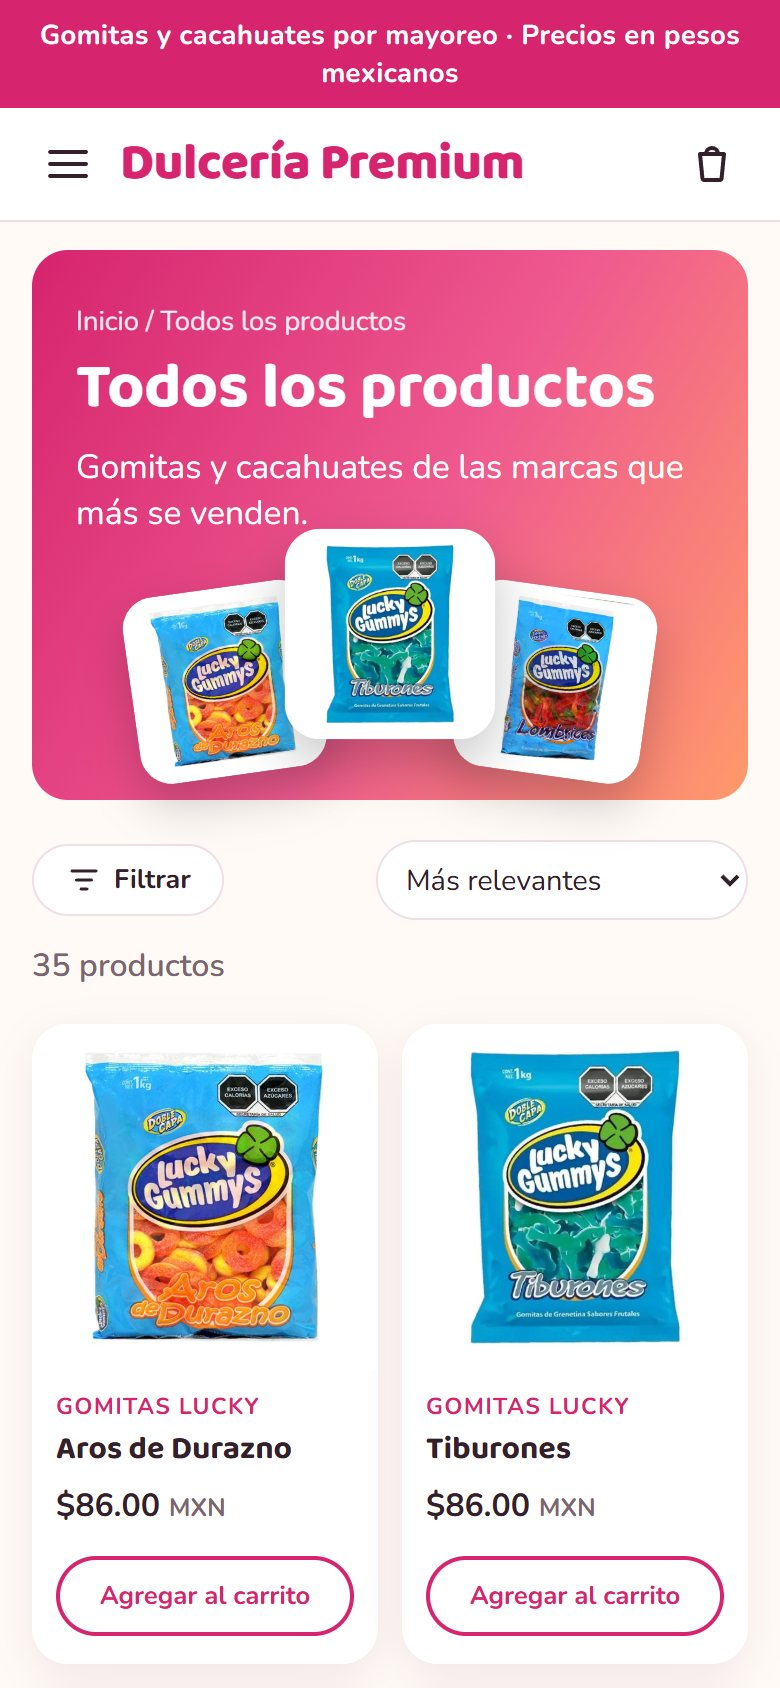
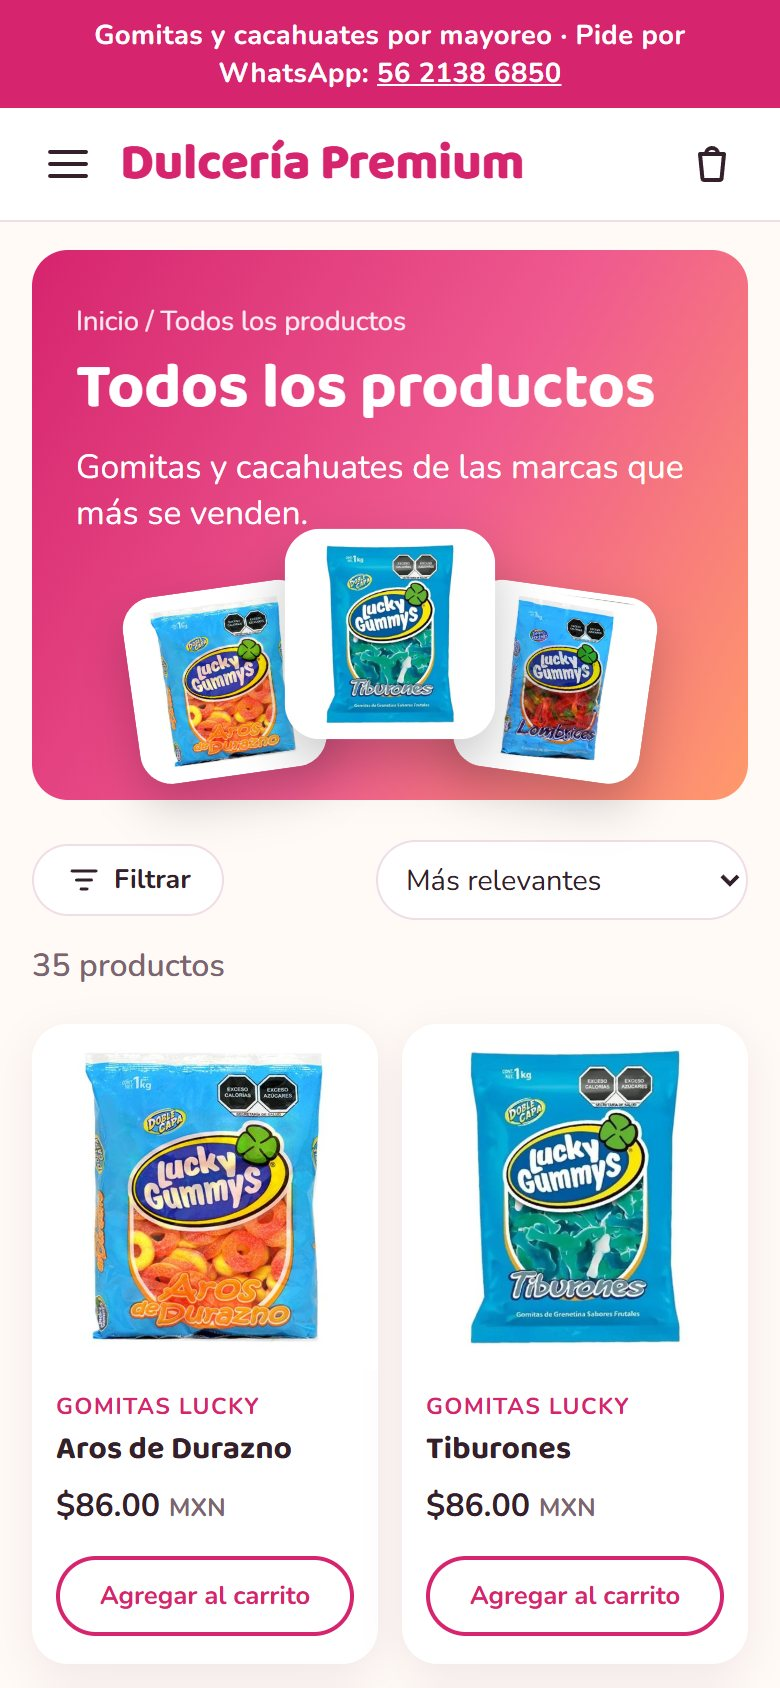
Pedidos por WhatsApp con folio al 56 2138 6850
- Al pedir, el carrito asigna un folio (DP-aammdd-nnnn), descuenta el
  inventario y abre WhatsApp con el pedido escrito: folio, productos y total.
- Todas las ventas del pedido quedan ligadas al folio y se ven en Ventas.
- El numero vive en datos.js (WHATSAPP_TIENDA) y aparece en la barra de
  arriba y en el pie de pagina.

Claude-Session: https://claude.ai/code/session_01M7Ucmo3kaJhSPSAZbfAGax

Changed region(s): [[0.0615, 0.0, 0.9538, 0.0616]]

diff --git a/js/datos.js b/js/datos.js
@@ -9,6 +9,11 @@
 /* --- Nombre de la tienda (se muestra en la pagina de venta) -------------- */
 const NOMBRE_TIENDA = "Dulcería Premium";
 
+/* --- WhatsApp al que llegan TODOS los pedidos de la tienda --------------- */
+/* 52 = Mexico, luego los 10 digitos. */
+const WHATSAPP_TIENDA = "525621386850";
+const WHATSAPP_VISIBLE = "56 2138 6850";
+
 /* --- Usuarios de prueba -------------------------------------------------- */
 const USUARIOS = [
   { correo: "admin@demo.com",    clave: "demo123", nombre: "Kevin (Admin)", rol: "admin" },
@@ -177,8 +182,9 @@ function tienePrecio(producto) {
   return typeof producto.precio === "number" && producto.precio > 0;
 }
 
-/* vendedor: quien vendio. Si no se pasa, se usa el usuario con sesion. */
-function registrarVenta(idProducto, cantidad, vendedor) {
+/* vendedor: quien vendio. Si no se pasa, se usa el usuario con sesion.
+   pedido: folio del pedido de la tienda (solo para ventas en linea). */
+function registrarVenta(idProducto, cantidad, vendedor, pedido) {
   const producto = buscarProducto(idProducto);
   cantidad = Number(cantidad);
 
@@ -200,7 +206,8 @@ function registrarVenta(idProducto, cantidad, vendedor) {
     cantidad: cantidad,
     total: Math.round(producto.precio * cantidad * 100) / 100,
     fecha: new Date().toISOString(),
-    vendedor: vendedor || (sesionActual() ? sesionActual().nombre : "—")
+    vendedor: vendedor || (sesionActual() ? sesionActual().nombre : "—"),
+    pedido: pedido || null
   });
   escribir("ventas", ventas);
 
@@ -209,6 +216,69 @@ function registrarVenta(idProducto, cantidad, vendedor) {
 
 function listarVentas() {
   return leer("ventas", []);
+}
+
+/* =========================================================================
+   PEDIDOS DE LA TIENDA (por WhatsApp)
+   ========================================================================= */
+
+/* Folio del pedido, por ejemplo DP-260913-4821 (fecha + 4 numeros al azar) */
+function nuevoFolio() {
+  const f = new Date();
+  const dos = n => String(n).padStart(2, "0");
+  const fecha = dos(f.getFullYear() % 100) + dos(f.getMonth() + 1) + dos(f.getDate());
+  const azar = String(Math.floor(Math.random() * 10000)).padStart(4, "0");
+  return `DP-${fecha}-${azar}`;
+}
+
+/* items: [{ id, cantidad }]
+   Revisa TODO antes de descontar, para no vender la mitad de un pedido.
+   Si sale bien, descuenta el inventario, guarda una venta por producto con
+   el mismo folio y regresa el detalle para armar el mensaje de WhatsApp. */
+function registrarPedido(items) {
+  if (!items.length) return { ok: false, mensaje: "El carrito esta vacio." };
+
+  for (const item of items) {
+    const p = buscarProducto(item.id);
+    if (!p)                        return { ok: false, mensaje: "Un producto del carrito ya no existe." };
+    if (!tienePrecio(p))           return { ok: false, mensaje: `${p.nombre} todavia no tiene precio.` };
+    if (item.cantidad > p.stock)   return { ok: false, mensaje: `Solo quedan ${p.stock} piezas de ${p.nombre}.` };
+  }
+
+  const folio = nuevoFolio();
+  const lineas = [];
+
+  for (const item of items) {
+    const p = buscarProducto(item.id);
+    const resultado = registrarVenta(p.id, item.cantidad, "Tienda en línea (WhatsApp)", folio);
+    if (!resultado.ok) return resultado;
+    lineas.push({ nombre: p.nombre, marca: p.categoria, cantidad: item.cantidad, precio: p.precio,
+                  importe: Math.round(p.precio * item.cantidad * 100) / 100 });
+  }
+
+  const total = lineas.reduce((s, l) => s + l.importe, 0);
+  const piezas = lineas.reduce((s, l) => s + l.cantidad, 0);
+  return { ok: true, folio, lineas, total, piezas };
+}
+
+/* Mensaje que le llega a la tienda por WhatsApp */
+function mensajeWhatsApp(pedido) {
+  const renglones = pedido.lineas.map(l =>
+    `• ${l.cantidad} x ${l.nombre} (${l.marca}) — ${dinero(l.importe)}`);
+
+  return [
+    `¡Hola ${NOMBRE_TIENDA}! Quiero hacer este pedido:`,
+    "",
+    `*Pedido: ${pedido.folio}*`,
+    "",
+    ...renglones,
+    "",
+    `*Total: ${dinero(pedido.total)}* (${pedido.piezas} ${pedido.piezas === 1 ? "pieza" : "piezas"})`
+  ].join("\n");
+}
+
+function enlaceWhatsApp(pedido) {
+  return `https://wa.me/${WHATSAPP_TIENDA}?text=${encodeURIComponent(mensajeWhatsApp(pedido))}`;
 }
 
 /* =========================================================================

diff --git a/js/tienda.js b/js/tienda.js
@@ -35,11 +35,20 @@ const filtros = {
 
 let carrito = leerCarrito();   // [{ id, cantidad }]
 
-/* ---------- Logo --------------------------------------------------------- */
+/* ---------- Logo y WhatsApp ---------------------------------------------- */
+
+const ICONO_WHATSAPP = '<svg viewBox="0 0 24 24" width="20" height="20" aria-hidden="true"><path fill="currentColor" d="M12 2a10 10 0 0 0-8.6 15.1L2 22l5-1.3A10 10 0 1 0 12 2Zm0 18.2a8.2 8.2 0 0 1-4.2-1.2l-.3-.2-3 .8.8-2.9-.2-.3A8.2 8.2 0 1 1 12 20.2Zm4.5-6.1c-.2-.1-1.5-.7-1.7-.8-.2-.1-.4-.1-.6.1l-.8 1c-.1.2-.3.2-.5.1a6.7 6.7 0 0 1-3.3-2.9c-.3-.4.3-.4.8-1.3.1-.2 0-.3 0-.4l-.8-1.8c-.2-.5-.4-.4-.6-.4h-.5a1 1 0 0 0-.7.3 3 3 0 0 0-.9 2.2 5.2 5.2 0 0 0 1.1 2.7 11.8 11.8 0 0 0 4.5 4c1.7.7 2.3.8 3.1.6.5-.1 1.5-.6 1.7-1.2.2-.6.2-1.1.2-1.2-.1-.1-.3-.2-.5-.3Z"/></svg>';
 
 $("logo").textContent = NOMBRE_TIENDA;
 $("logoPie").textContent = NOMBRE_TIENDA;
 document.title = NOMBRE_TIENDA + " | Gomitas y cacahuates";
+
+const enlaceContacto = `https://wa.me/${WHATSAPP_TIENDA}`;
+$("anuncioWhatsApp").textContent = WHATSAPP_VISIBLE;
+$("anuncioWhatsApp").href = enlaceContacto;
+$("pieWhatsApp").innerHTML = `${ICONO_WHATSAPP} ${escapar(WHATSAPP_VISIBLE)}`;
+$("pieWhatsApp").href = enlaceContacto;
+$("finalizar").innerHTML = `${ICONO_WHATSAPP} Pedir por WhatsApp`;
 
 /* ---------- Filtros: dibujar las casillas -------------------------------- */
 
@@ -357,27 +366,18 @@ function abrirCarrito() {
   $("carrito").setAttribute("aria-hidden", "false");
 }
 
-/* Finalizar: se registra una venta por producto y baja el stock */
+/* Finalizar: se le asigna folio al pedido, se descuenta del inventario
+   y se abre WhatsApp con el pedido ya escrito para la tienda */
 function finalizarPedido() {
   revisarCarrito();
   if (!carrito.length) { pintarCarrito(); return; }
 
-  // Primero revisar que todo alcance, para no vender la mitad del pedido
-  for (const item of carrito) {
-    const p = buscarProducto(item.id);
-    if (item.cantidad > p.stock) {
-      avisoCarrito(`Solo quedan ${p.stock} piezas de ${p.nombre}.`, "error");
-      return;
-    }
-  }
+  const pedido = registrarPedido(carrito);
+  if (!pedido.ok) { avisoCarrito(pedido.mensaje); return; }
 
-  let total = 0, piezas = 0;
-  for (const item of carrito) {
-    const resultado = registrarVenta(item.id, item.cantidad, "Tienda en línea");
-    if (!resultado.ok) { avisoCarrito(resultado.mensaje, "error"); return; }
-    total += buscarProducto(item.id).precio * item.cantidad;
-    piezas += item.cantidad;
-  }
+  const enlace = enlaceWhatsApp(pedido);
+  // Se abre en el mismo clic para que el navegador no lo bloquee
+  window.open(enlace, "_blank", "noopener");
 
   carrito = [];
   guardarCarrito();
@@ -386,9 +386,13 @@ function finalizarPedido() {
   pintarProductos();
 
   $("carritoLista").innerHTML = `<div class="gracias">
-      <p class="gracias-titulo">¡Gracias por tu pedido!</p>
-      <p>${piezas} ${piezas === 1 ? "pieza" : "piezas"} por ${dinero(total)}.</p>
-      <p>Ya se descontó del inventario.</p>
+      <p class="gracias-titulo">¡Pedido listo!</p>
+      <p class="folio">Tu número de pedido es<br><strong>${escapar(pedido.folio)}</strong></p>
+      <p>${pedido.piezas} ${pedido.piezas === 1 ? "pieza" : "piezas"} por ${dinero(pedido.total)}.</p>
+      <p>Solo falta que <strong>envíes el mensaje</strong> en WhatsApp para confirmarlo.</p>
+      <a class="boton-whatsapp" href="${escapar(enlace)}" target="_blank" rel="noopener">
+        ${ICONO_WHATSAPP} Abrir WhatsApp otra vez
+      </a>
     </div>`;
 }
 

diff --git a/css/tienda.css b/css/tienda.css
@@ -649,9 +649,60 @@ button { font-family: inherit; }
 
 .nota { font-size: .8rem; color: var(--texto-suave); text-align: center; margin: 10px 0 0; }
 
-.gracias { text-align: center; padding: 50px 10px; }
-.gracias p { margin: 4px 0; }
+.gracias { text-align: center; padding: 40px 10px; }
+.gracias p { margin: 6px 0; line-height: 1.45; }
 .gracias-titulo { font-family: var(--titulos); font-size: 1.6rem; color: var(--verde); font-weight: 700; }
+
+.gracias .folio {
+  background: var(--rosa-claro);
+  border-radius: 14px;
+  padding: 12px;
+  margin: 14px 0 !important;
+  color: var(--texto-suave);
+}
+.gracias .folio strong {
+  font-family: var(--titulos);
+  font-size: 1.5rem;
+  color: var(--vino);
+  letter-spacing: .03em;
+}
+
+/* ---------- WhatsApp ----------------------------------------------------- */
+
+.boton-verde { background: #1faa55; border-color: #1faa55; }
+.boton-verde:hover { background: #178a45; border-color: #178a45; }
+
+#finalizar,
+.boton-whatsapp {
+  display: inline-flex;
+  align-items: center;
+  justify-content: center;
+  gap: 8px;
+}
+
+.boton-whatsapp {
+  margin-top: 16px;
+  background: #1faa55;
+  color: #fff;
+  text-decoration: none;
+  font-weight: 800;
+  padding: 11px 20px;
+  border-radius: 999px;
+}
+.boton-whatsapp:hover { background: #178a45; }
+
+.anuncio a { color: #fff; text-decoration: underline; white-space: nowrap; }
+
+.pie-contacto { margin-top: 16px !important; font-weight: 700; color: #fff; }
+.pie-columnas .enlace-whatsapp {
+  display: flex;
+  width: fit-content;
+  align-items: center;
+  gap: 6px;
+  margin-top: 6px;
+  font-size: 1.1rem;
+  color: #fff;
+}
 
 /* ---------- Mensajito flotante ------------------------------------------- */
 

diff --git a/index.html b/index.html
@@ -14,7 +14,7 @@
 <body>
 
   <!-- Barra de anuncio -->
-  <div class="anuncio">Gomitas y cacahuates por mayoreo &middot; Precios en pesos mexicanos</div>
+  <div class="anuncio">Gomitas y cacahuates por mayoreo &middot; Pide por WhatsApp: <a id="anuncioWhatsApp" target="_blank" rel="noopener"></a></div>
 
   <!-- Encabezado -->
   <header class="encabezado">
@@ -131,6 +131,7 @@
       <div>
         <p class="logo logo-pie" id="logoPie"></p>
         <p>Gomitas y cacahuates de las marcas que más se venden, con inventario al día: lo que ves en la tienda es lo que hay en el almacén.</p>
+        <p class="pie-contacto">Pedidos por WhatsApp<a id="pieWhatsApp" class="enlace-whatsapp" target="_blank" rel="noopener"></a></p>
       </div>
       <div>
         <h3>Categorías</h3>
@@ -161,8 +162,8 @@
     <div class="carrito-pie" id="carritoPie">
       <div class="carrito-total"><span>Subtotal</span><strong id="carritoTotal">$0.00</strong></div>
       <div class="aviso-carrito oculto" id="avisoCarrito"></div>
-      <button class="boton-principal" id="finalizar">Finalizar pedido</button>
-      <p class="nota">Al finalizar, las piezas se descuentan del inventario.</p>
+      <button class="boton-principal boton-verde" id="finalizar">Pedir por WhatsApp</button>
+      <p class="nota">Tu pedido recibe un número y se abre WhatsApp con todo ya escrito para enviarlo a la tienda.</p>
     </div>
   </aside>
 

diff --git a/js/ventas.js b/js/ventas.js
@@ -72,6 +72,7 @@ function pintarVentas() {
     const fila = document.createElement("tr");
     fila.innerHTML = `
       <td>${fechaCorta(v.fecha)}</td>
+      <td>${v.pedido ? `<span class="etiqueta ok">${escapar(v.pedido)}</span>` : "Mostrador"}</td>
       <td>${escapar(v.producto)}</td>
       <td>${v.cantidad}</td>
       <td>${dinero(v.total)}</td>

diff --git a/ventas.html b/ventas.html
@@ -57,6 +57,7 @@
           <thead>
             <tr>
               <th>Fecha</th>
+              <th>Pedido</th>
               <th>Producto</th>
               <th>Cantidad</th>
               <th>Total</th>

diff --git a/README.md b/README.md
@@ -41,7 +41,10 @@ El administrador puede borrar productos y ver reportes. El empleado solo vende.
 - Filtros por marca, tipo de antojo, rango de precio y disponibilidad.
 - Buscador y orden por precio o nombre.
 - Carrito que no deja pedir más piezas de las que hay en el almacén.
-- Al finalizar el pedido, el stock baja solo y la venta aparece en los reportes.
+- **Pedidos por WhatsApp:** al pedir, se le asigna un folio (por ejemplo
+  `DP-260913-4821`), se descuenta del inventario y se abre WhatsApp con el pedido
+  ya escrito (folio, productos y total) para enviarlo al número de la tienda.
+- Cada venta queda ligada a su folio en la pantalla de Ventas y cuenta en los reportes.
 
 **Sistema interno (para el negocio)**
 - **Login con roles** — administrador y empleado ven cosas distintas.
